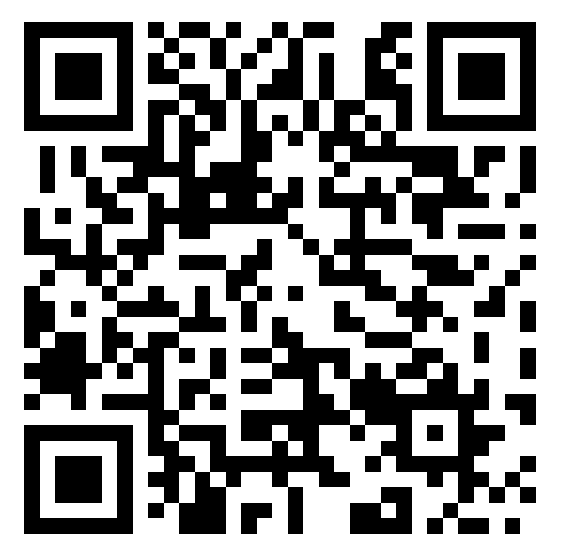
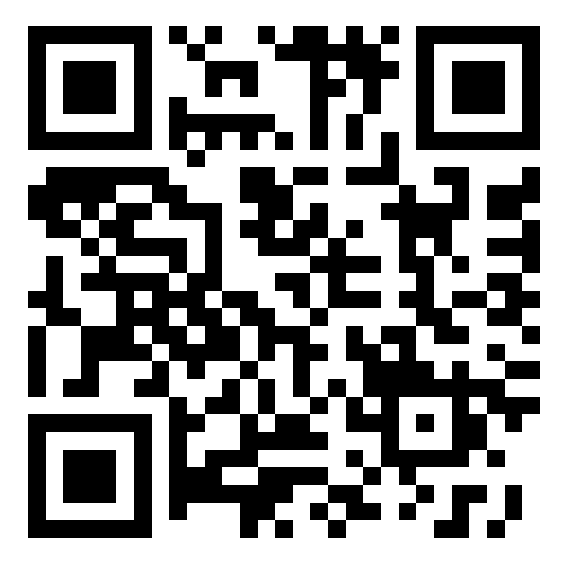
:iphone: update code

diff --git a/src/components/Genetator.js b/src/components/Genetator.js
@@ -33,8 +33,8 @@ const Generator = () => {
         level="Q"
         style={{ width: 256 }}
         value={JSON.stringify({
-          id: { id },
-          table: { table }
+          id: id,
+          table: table
         })}
       />
       <Input>
